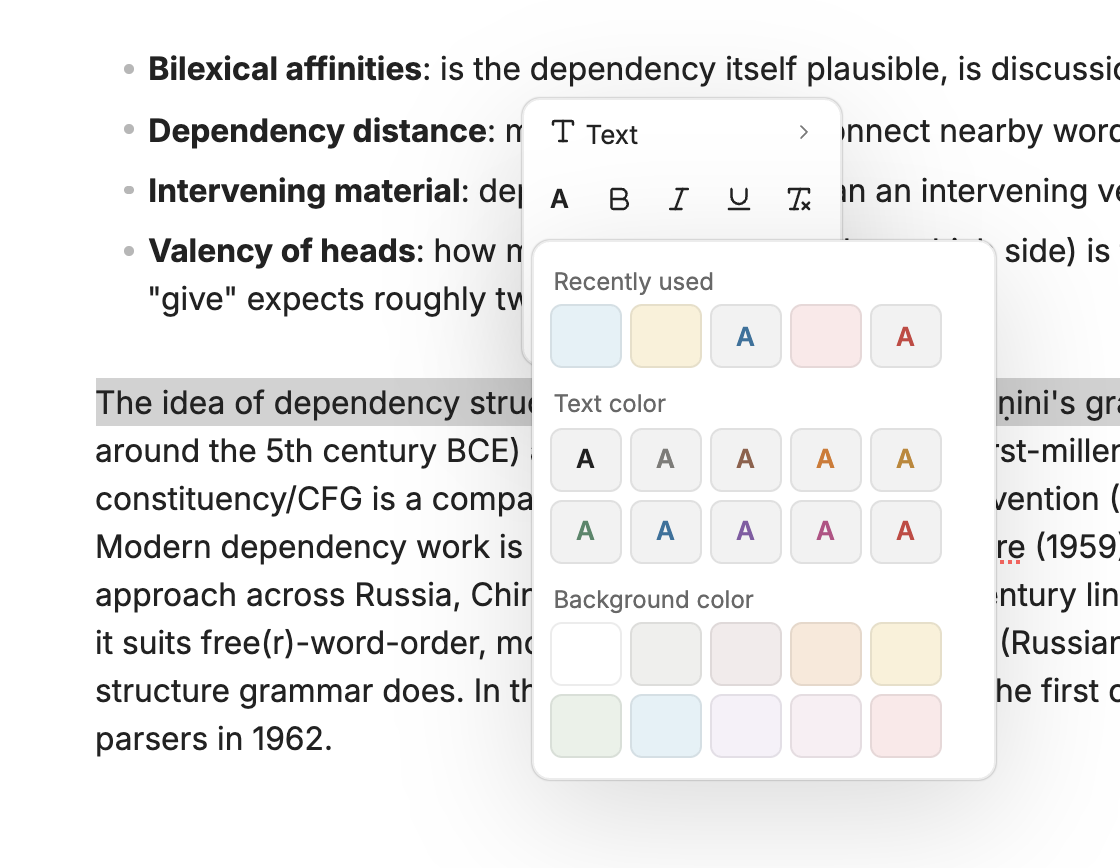
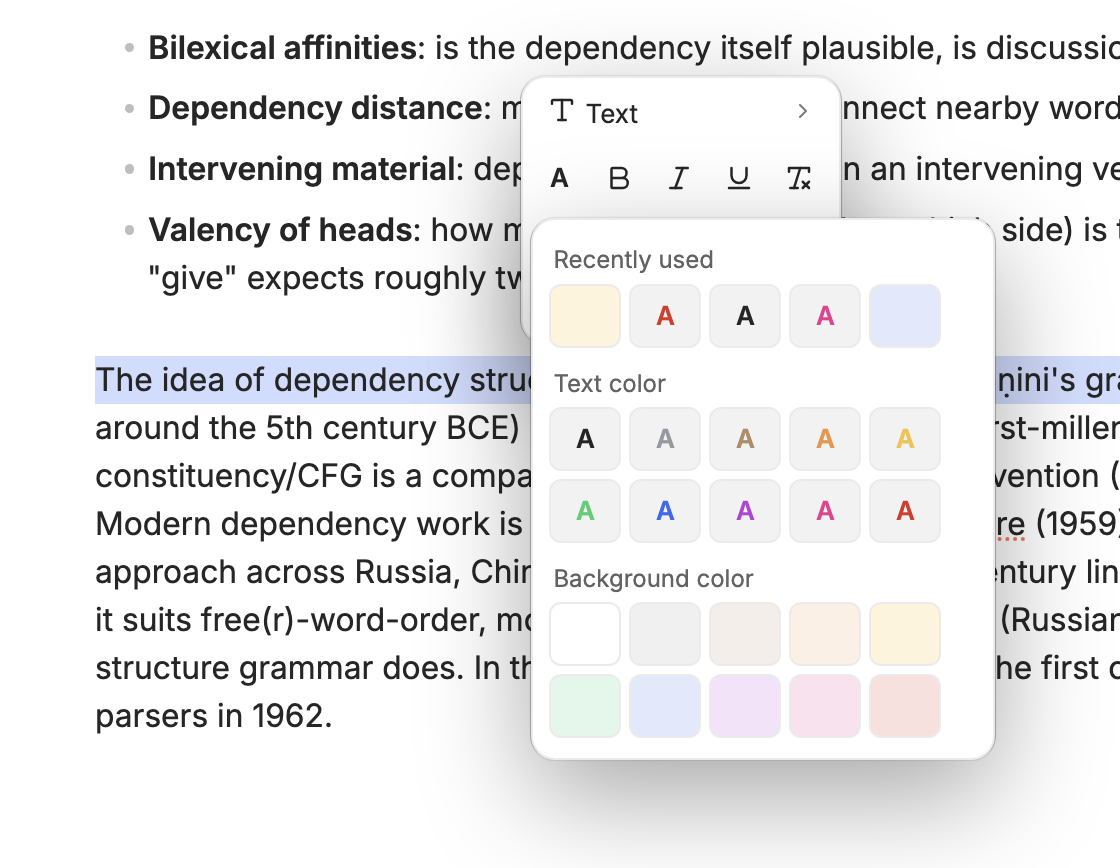
README: show Apple colors in screenshots and add scheme comparison

diff --git a/README.md b/README.md
@@ -67,6 +67,8 @@ In the Notion scheme, bold colored text uses a slightly deeper bold variant of i
 
 There are two color schemes, chosen under **Settings → Color scheme**. Switching recolors colors already in your notes; the notes themselves don't change.
 
+<img src="images/color-schemes.png" alt="Notion and Apple color schemes in light and dark mode">
+
 **Notion** (default):
 
 | Color | Text (light) | Bold text (light) | Background (light) | Text (dark) | Bold text (dark) | Background (dark) |
